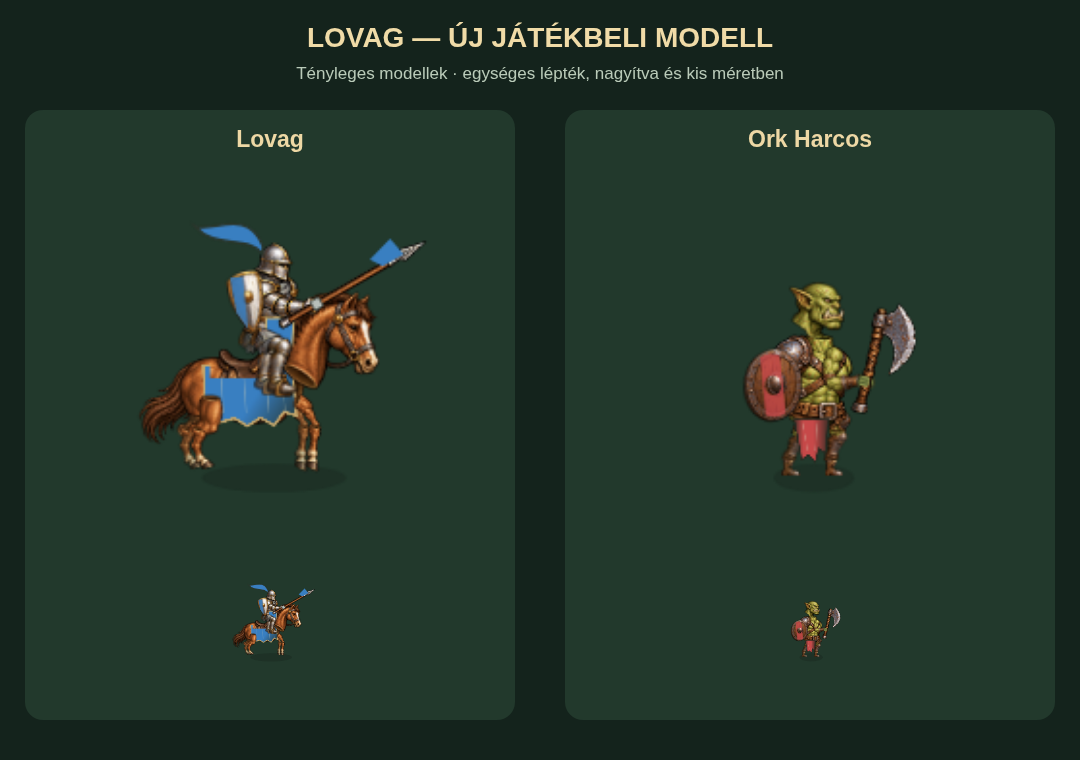
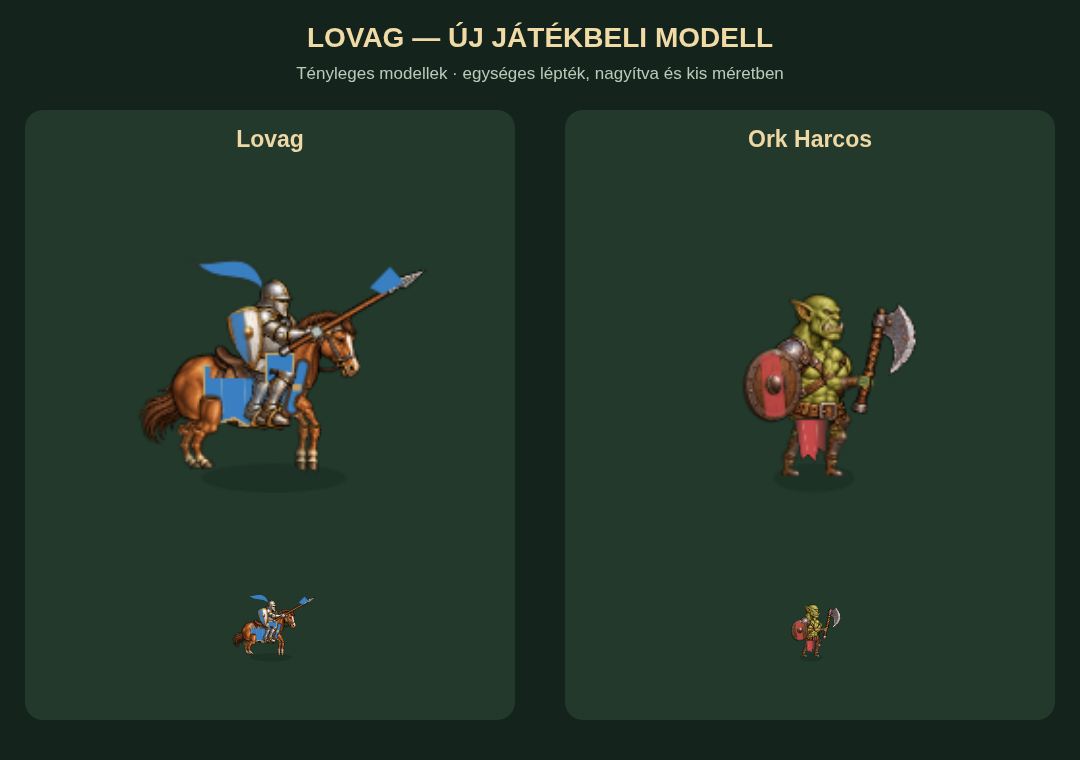
Seat Knight in saddle and correct Orc neck and horse proportions

diff --git a/src/rendering/knight-figure.js b/src/rendering/knight-figure.js
@@ -57,23 +57,31 @@ export function drawKnight(g,R,color,p,elite,walking=false) {
   leg(false,false);leg(true,false);
   g.save();g.translate(0,bob);
   g.save();g.translate(-20,-27);g.rotate(.06+(walking?Math.sin(cycle)*.10:0)+death*.2);part('tail',-12,-1,22);g.restore();
-  part('horseBody',-23,-31,20);
+  part('horseBody',-25,-32,22);
   g.drawImage(cloth(R,color),-18,-27.5,26,17);
   // Redraw the saddle above the blanket, keeping leather and steel unpainted.
-  g.save();g.beginPath();g.rect(-15,-31,18,8);g.clip();part('horseBody',-23,-31,20);g.restore();
-  g.save();g.translate(7,-23);g.rotate((walking?Math.sin(cycle)*.035:0)+.045*strike);part('horseHead',-7,-22,25);g.restore();
+  g.save();g.beginPath();g.rect(-15,-31,18,8);g.clip();part('horseBody',-25,-32,22);g.restore();
+  g.save();g.translate(7,-23);g.rotate((walking?Math.sin(cycle)*.035:0)+.045*strike);part('horseHead',-6.2,-17,20);g.restore();
+  // Breast collar joins the neck to the chest and covers the cutout joints.
+  g.lineCap='round';g.strokeStyle='#4c3425';g.lineWidth=4.2;g.beginPath();g.moveTo(8.2,-26);g.lineTo(5.5,-15.5);g.stroke();
+  g.strokeStyle=color;g.lineWidth=2.3;g.stroke();g.fillStyle='#c3a367';g.fillRect(5.6,-21.5,2.2,1.7);
   g.restore();
   leg(false,true);leg(true,true);
 
-  g.save();g.translate(strike*.9,bob*.65);g.translate(-3,-34);g.rotate(.06*strike-.035*wind+death*.16);g.translate(3,34);
-  g.save();g.globalAlpha=.83;part('riderLeg',-8,-36,17.5);g.restore();
+  g.save();g.translate(strike*.9,9+bob*.65);g.translate(-3,-34);g.rotate(.06*strike-.035*wind+death*.16);g.translate(3,34);
+  // Hips rest in the saddle. The thigh extends forwards, the shin hangs
+  // below the knee; a standing full-leg cutout cannot produce this seated pose.
+  const backHip=[-6,-36],backKnee=[0,-32],backAnkle=[-3,-23];
+  const hip=[-4,-36],knee=[4,-32],ankle=[1,-23];
+  g.save();g.globalAlpha=.83;limb(g,R,'riderThigh',backHip,backKnee);limb(g,R,'riderShin',backKnee,backAnkle);g.restore();
+  limb(g,R,'riderThigh',hip,knee);
   part('rider',-9,-57,27);
   // A small team tabard and plume retain the helmet's painted metal texture.
   g.fillStyle=color;g.strokeStyle='#c9ae70';g.lineWidth=.5;g.beginPath();g.moveTo(-1,-38);g.lineTo(6,-38);g.lineTo(5.5,-31);g.lineTo(2,-29.5);g.lineTo(-1,-31);g.closePath();g.fill();g.stroke();
   g.save();g.translate(-1.8,-56);g.rotate((walking?Math.sin(cycle)*.08:0)-.1*wind);g.fillStyle=color;g.strokeStyle='#2b362b';g.lineWidth=.6;g.beginPath();g.moveTo(0,0);g.bezierCurveTo(-4,-10,-13,-3,-17,-5);g.bezierCurveTo(-12,1,-4,-3,0,2);g.closePath();g.fill();g.stroke();g.restore();
-  part('riderLeg',-5,-36,18.0);
+  limb(g,R,'riderShin',knee,ankle);
 
-  const arm=manifest.parts.arm,armScale=15/arm[3],shoulder=[-3,-45],armAngle=-.55-.65*wind;
+  const arm=manifest.parts.arm,armScale=15/arm[3],shoulder=[-3,-47],armAngle=-.55-.65*wind;
   const proximal=manifest.anchors.armShoulder.map((n,i)=>n*arm[i+2]),distal=manifest.anchors.armHand.map((n,i)=>n*arm[i+2]);
   const dx=(distal[0]-proximal[0])*armScale,dy=(distal[1]-proximal[1])*armScale;
   const hand=[shoulder[0]+Math.cos(armAngle)*dx-Math.sin(armAngle)*dy,shoulder[1]+Math.sin(armAngle)*dx+Math.cos(armAngle)*dy];
@@ -91,5 +99,5 @@ export function drawKnight(g,R,color,p,elite,walking=false) {
   g.globalAlpha=.85;g.fillStyle=color;g.fillRect(-width*.37,-height/2,width*.35,height);g.restore();
   if(elite){g.strokeStyle='#ffdb76';g.lineWidth=.9;g.beginPath();g.moveTo(-width*.46,-height*.43);g.lineTo(width*.46,-height*.43);g.lineTo(width*.38,height*.15);g.lineTo(0,height*.48);g.lineTo(-width*.38,height*.15);g.closePath();g.stroke();}
   g.restore();g.restore();g.restore();
-  return {painted:true,style:'painted-knight',body:[thrust,bob],hoofs,knees,hand,weapon:[...hand,lanceAngle],death};
+  return {painted:true,style:'painted-knight',body:[thrust,bob],riderHip:[hip[0],hip[1]+9],riderKnee:[knee[0],knee[1]+9],riderAnkle:[ankle[0],ankle[1]+9],saddle:[-4,-27],hoofs,knees,hand,weapon:[...hand,lanceAngle],death};
 }

diff --git a/src/rendering/battle-figures.js b/src/rendering/battle-figures.js
@@ -262,7 +262,7 @@ export function installBattleFigures(R) {
     const hurt=dead?0:clamp(1-(R.ROAD.clock-(u.roadHurtAt??-99))/.16);g.translate(-Math.sin(hurt*Math.PI)*1.5,0);
     g.drawImage(image,...image.figureBounds);g.restore();
     if(!dead){
-      if((detail||hurt>.4)&&u.hp<u.maxHp*.98){const top=paintedKnight(R,u)?-70:-51;g.fillStyle='#14251a';g.fillRect(-10,top,21,3);g.fillStyle=R.unitTeamFill(u);g.fillRect(-9,top+1,19*clamp(u.hp/u.maxHp),1.8);}
+      if((detail||hurt>.4)&&u.hp<u.maxHp*.98){const top=paintedKnight(R,u)?-61:-51;g.fillStyle='#14251a';g.fillRect(-10,top,21,3);g.fillStyle=R.unitTeamFill(u);g.fillRect(-9,top+1,19*clamp(u.hp/u.maxHp),1.8);}
       drawStatusEffects(R,g,u,detail,r,p.x,p.y,scale);
       if(hurt>.1){g.strokeStyle='#f7e0a1';g.lineWidth=1;line(g,8,-23,13,-27,'#ffe5a8',1);line(g,9,-19,15,-18,'#ffe5a8',1);}
     }

diff --git a/src/rendering/orc-warrior-figure.js b/src/rendering/orc-warrior-figure.js
@@ -67,7 +67,7 @@ export function drawOrcWarrior(g,R,color,p,elite,walking=false) {
   const backElbow=joint(backShoulder,backHand,7.5,7,-1);
   limb(g,R,'upperArm',backShoulder,backElbow);limb(g,R,'forearm',backElbow,backHand);
   part('torso',-11.1,-34.6,24.0);
-  g.save();g.translate(.9,-33.2);g.rotate(-.06*wind+.05*strike);part('head',-6.2,-13.8,14.4);g.restore();
+  g.save();g.translate(.9,-30.2);g.rotate(-.06*wind+.05*strike);part('head',-6.2,-13.8,14.4);g.restore();
   g.drawImage(cloth(R,color),-4.7,-13.1,10.2,11.5);
 
   const hand=[14-10*wind+2.5*strike-walk*.45,-22.0-12.4*wind-.8*strike];

diff --git a/src/config/app.js b/src/config/app.js
@@ -1,6 +1,6 @@
 export const APP = Object.freeze({
-  version: '4.39.0',
-  label: 'V4.39.0 · LOVAGPRÓBA',
+  version: '4.39.1',
+  label: 'V4.39.1 · LOVAGPRÓBA',
   title: 'Roadlords – Lovagpróba',
   repository: 'krisztianmatekiss/Roadlords',
   musicRoot: 'https://raw.githubusercontent.com/krisztianmatekiss/roadlords-music/main/',

diff --git a/README.md b/README.md
@@ -1,4 +1,8 @@
-# Roadlords · V4.39.0
+# Roadlords · V4.39.1
+
+## V4.39.1 – Ülő lovas és javított arányok
+
+A Lovag csípője a nyereghez igazodik, combja előrenyúlik, lábszára külön hajlik. A ló kisebb fej–nyak részt és teltebb törzset kapott; a szügyelő eltakarja az alkatrészillesztést. Az Ork Harcos feje alacsonyabbra került, így a fej és a törzs nyakrésze egybeilleszkedik. A játékbeli előnézetek frissültek.
 
 ## V4.39.0 – Lovagpróba és két aktuális teszt
 
